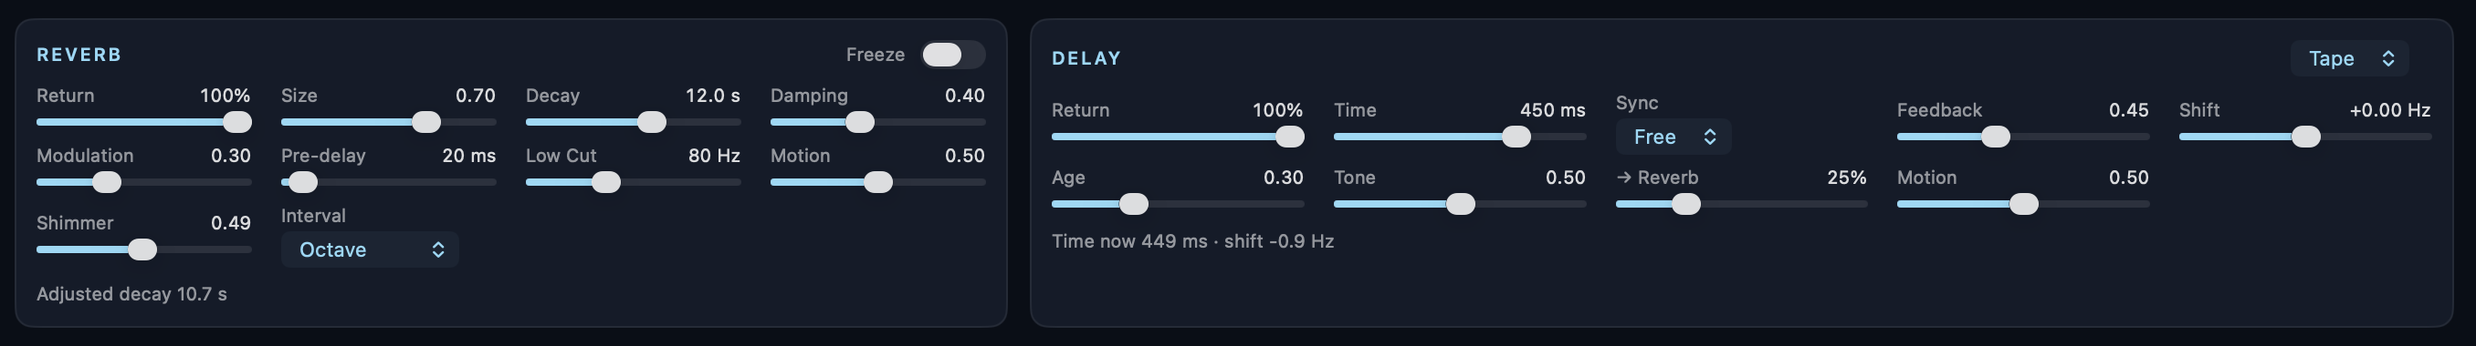
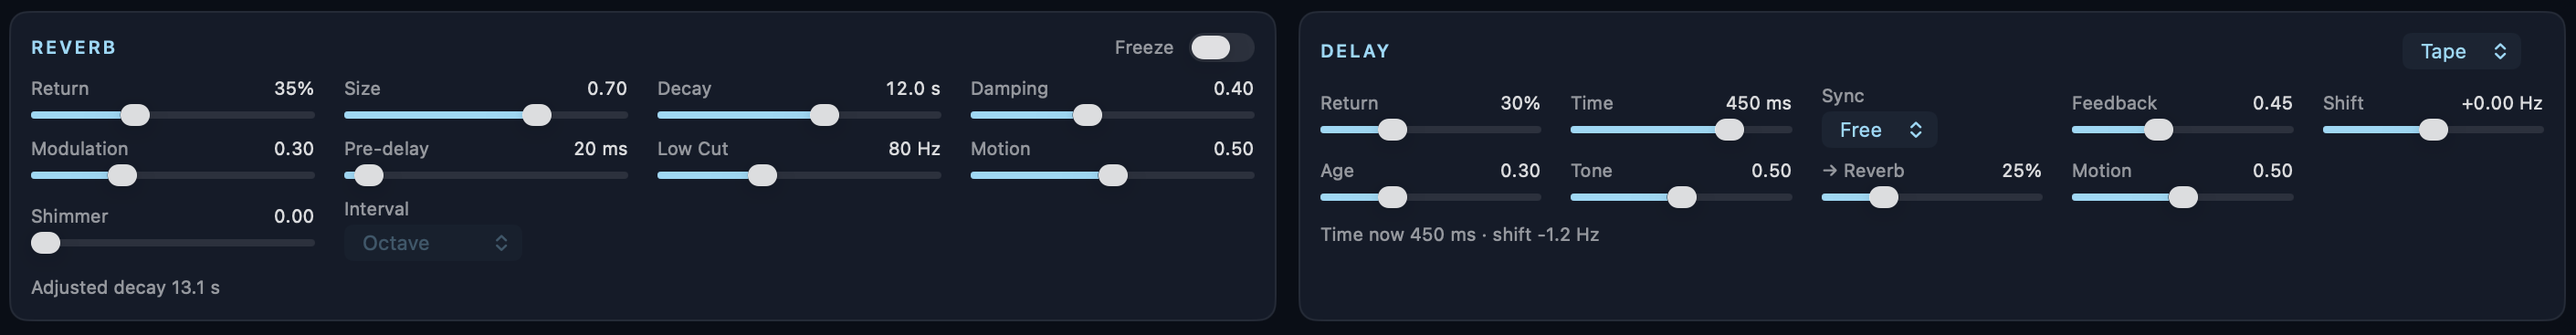
update main product page

diff --git a/antarctica/docs/index.html b/antarctica/docs/index.html
@@ -17,7 +17,7 @@
   <header class="hero">
     <h1>ANTARCTICA</h1>
     <p class="tagline">Eight tracks of drones, pulses, and strange noises that play themselves.</p>
-    <p class="subtitle">A generative instrument for macOS where the conductor sets the mood while the eight tracks make their own decisions. Let it play for hours or take control at any time and let your imagination fly.</p>
+    <p class="subtitle">A generative instrument for macOS. The Conductor sets the mood. Eight tracks make their own decisions. Let it play for hours or take control at any time.</p>
     <div class="actions">
       <a class="button primary" href="https://toolsweb.apple.com/apps/antarctica">Get Antarctica</a>
       <a class="button" href="manual/index.html">Read the Manual</a>
@@ -34,7 +34,9 @@
     <div class="band-inner split">
       <div>
         <h2>The conductor sets the mood</h2>
-        <p class="lead">There are three dimensions to choose from: order to chaos, sparse to busy, and dissonant to melodic. Set them yourself or turn on Auto to give control to the conductor. The User or conductor can evolve the vibe slowly or change it dramatically.</p>
+        <p class="lead">Three dimensions: order to chaos, sparse to busy, and dissonant to melodic.
+         Set them yourself or let the Conductor drive.
+        The vibe can evolve slowly or change dramatically.</p>
       </div>
       <div class="axes" aria-hidden="true">
         <div class="axis"><div class="labels"><span>Order</span><span>Chaos</span></div><div class="bar"><span></span></div></div>
@@ -48,7 +50,9 @@
     <div class="band-inner split reverse">
       <div>
         <h2>Eight tracks think for themselves</h2>
-        <p class="lead">At unpredictable intervals, each track decides whether to change. It can choose a new sound, filter, or pattern, take a rest, or jump back into the action. Sequences have independent step counts and rates to encourage polyrhythmic diversity.</p>
+        <p class="lead">At unpredictable intervals, each track reaches a decision point.
+         It can choose a new sound or pattern. It can take a rest, or jump back into the action.
+        Sequences have independent step counts and rates to encourage polyrhythmic diversity.</p>
       </div>
       <figure class="shot" data-file="images/track-strips.png" data-shot="The row of eight track strips, with some tracks playing and some resting.">
         <img src="images/track-strips.png" alt="The eight track strips" onerror="this.parentElement.classList.add('missing')">
@@ -73,7 +77,10 @@
     <div class="band-inner split">
       <div>
         <h2>You're in control (if you want)</h2>
-        <p class="lead">Each track parameter can be set to Auto or Manual. In Auto, the conductor's input determines the parameter. Click on a value to switch it to Manual to lock in your choice. Lock one parameter or the entire track.</p>
+        <p class="lead">Track parameters can be set to Auto or Manual.
+        In Auto, the Conductor influences parameter changes.
+        Clicking on a parameter switches it to Manual and locks in your choice.
+        Lock one parameter or the entire track.</p>
       </div>
       <figure class="shot" data-file="images/track-detail.png" data-shot="The detail panel of one track, with some parameters in Manual (amber names) and some in Auto.">
         <img src="images/track-detail.png" alt="The track detail panel" onerror="this.parentElement.classList.add('missing')">
@@ -85,7 +92,8 @@
     <div class="band-inner split reverse">
       <div>
         <h2>Special Effects</h2>
-        <p class="lead">The conductor has the power to adjust two mood-altering send effects: reverb and delay. Reverb features include shimmer, lossless freeze, and decays of up to 100 seconds. Delay offers up tape and bucket-brigade modes, with a frequency shifter in its feedback path for extra psychedelia.</p>
+        <p class="lead">Reverb features include shimmer, lossless freeze, and decays of up to 100 seconds.
+     Delay offers tape and bucket-brigade modes, with a pitch shifter in the feedback path for extra psychedelia.</p>
       </div>
       <figure class="shot" data-file="images/effects.png" data-shot="The Reverb and Delay panels.">
         <img src="images/effects.png" alt="The effects panels" onerror="this.parentElement.classList.add('missing')">
